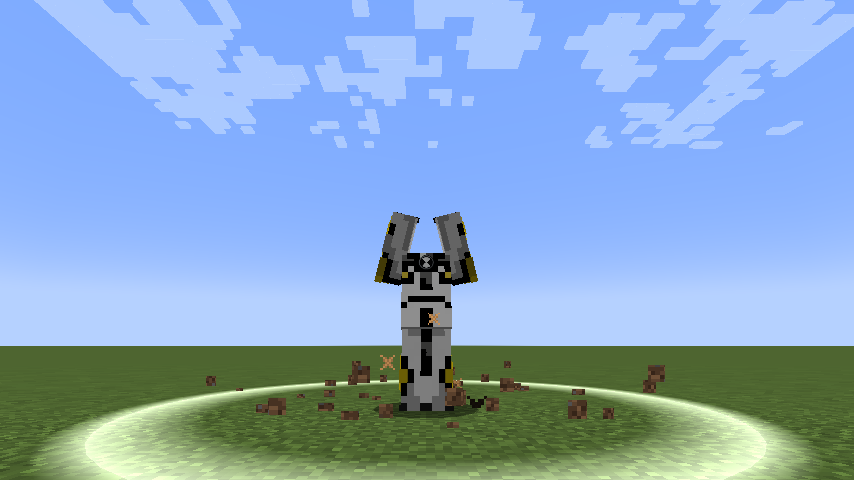
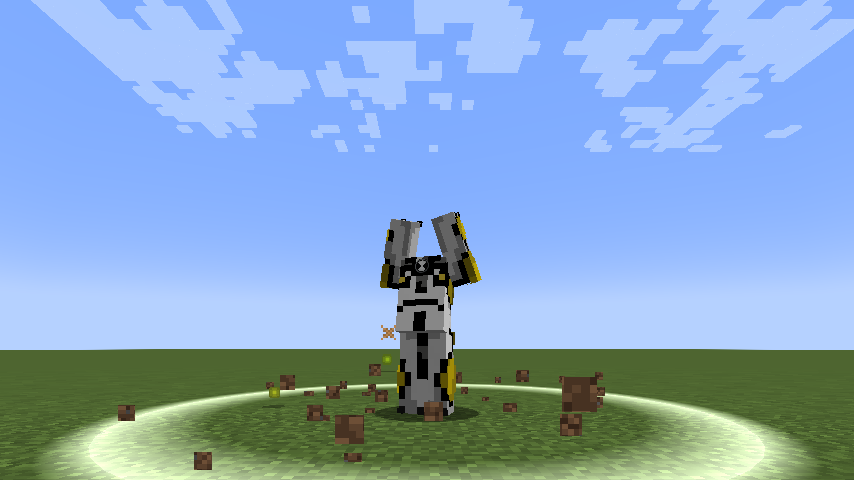
v0.17.2: Cannonbolt is found by accident -- off the dial until the prototype's first mistransform, which always lands on him and unlocks him for good; his ball remade from the user's reference (amber plates, black basketball seams, smooth sphere) (user: "for the canonbolt alien i want ben to acciden
- Aliens.HIDDEN / found / discover / nextHidden; playable(p), available and select skip an unfound alien.
- One action-bar line on the discovery only (ordinary mistransforms stay silent).
- /projecthero power tune omnitrix found on|off.
- Ball: 256x128 seam wrap traced on the sphere, 40x24 UV sphere with per-vertex normals.
- Test: a real slap loop finds Cannonbolt on the first glitch.

diff --git a/scratchpad/ben10_v0171/gen_cannonbolt.js b/scratchpad/ben10_v0171/gen_cannonbolt.js
@@ -16,28 +16,49 @@ const write = (f, w, h, px) => fs.writeFileSync(path.join(RES, f), L.encodePng(w
 // --- the skin -----------------------------------------------------------------------------------------------------------------
 write('entity/omnitrix/cannonbolt.png', 64, 64, dec(path.join(__dirname, 'cannonbolt_src.png')).px);
 
-// --- the ball's shell: a 64x32 wrap (longitude across, latitude down) for the client's sphere -------------------------------
-// two bands of his gold plates in a brick pattern, black-edged, white seams between them and white caps at the poles (his white
-// body showing between the plates, as the show's ball)
+// --- the ball's shell: a 256x128 wrap (longitude across, latitude down) for the client's UV sphere ----------------------------
+// v0.17.2 (user: "this is what canonbolts ball form looks like, make it look like this please" -- cannonbolt_ball_ref.png): solid
+// amber plates, no white, thick black seams like a basketball's -- a big S-wave round the middle, a round plate edge on each side
+// (the circle-in-circle panel) and one seam over the top. The seams are traced on the real sphere, with the exact mapping
+// CannonboltClient.sphere uses (v down = theta from the BOTTOM pole, y = -cos(theta); u round = phi), so they stay round.
 {
-	const W = 64, H = 32;
+	const W = 256, H = 128;
 	const px = Buffer.alloc(W * H * 4);
-	const set = (x, y, c) => { const o = (y * W + x) * 4; px[o] = c[0]; px[o + 1] = c[1]; px[o + 2] = c[2]; px[o + 3] = 255; };
-	const WHITE = [255, 255, 255], SHADE = [0xd8, 0xd8, 0xd8], BLACK = [0, 0, 0], GOLD = [0xda, 0xbe, 0x0b], DARK = [0xa8, 0x94, 0x11],
-		LIGHT = [0xf0, 0xd4, 0x3b];
-	const bands = [[3, 15, 0], [17, 29, 4]]; // rows y0..y1 inclusive, column offset (the brick shift)
+	const P = (theta, phi) => [Math.sin(theta) * Math.cos(phi), -Math.cos(theta), Math.sin(theta) * Math.sin(phi)];
+	const fromLatLon = (lat, phi) => P(Math.PI / 2 + lat, phi); // lat + = up
+	const norm = v => { const l = Math.hypot(v[0], v[1], v[2]); return v.map(c => c / l); };
+	const cross = (a, b) => [a[1] * b[2] - a[2] * b[1], a[2] * b[0] - a[0] * b[2], a[0] * b[1] - a[1] * b[0]];
+	const curves = [];
+	// 1. the S-wave round the middle (a tennis-ball seam)
+	{ const pts = []; for (let i = 0; i < 720; i++) { const f = i / 720 * 2 * Math.PI; pts.push(fromLatLon(0.62 * Math.sin(2 * f), f)); } curves.push(pts); }
+	// 2-3. a round plate edge in each big lobe the wave leaves
+	for (const [lat, lon] of [[0.32, 0.75 * Math.PI], [-0.32, 1.75 * Math.PI]]) {
+		const c = fromLatLon(lat, lon);
+		const a = norm(cross(c, [0, 1, 0])), b = cross(c, a), r = 0.5;
+		const pts = [];
+		for (let i = 0; i < 360; i++) {
+			const t = i / 360 * 2 * Math.PI;
+			pts.push(norm(c.map((v, k) => v * Math.cos(r) + (a[k] * Math.cos(t) + b[k] * Math.sin(t)) * Math.sin(r))));
+		}
+		curves.push(pts);
+	}
+	// 4. one seam over the top: a great circle through both poles, between the two plate circles
+	{ const pts = []; for (let i = 0; i < 720; i++) { const t = i / 720 * 2 * Math.PI; pts.push([Math.cos(t) * Math.cos(0.25 * Math.PI), Math.sin(t), Math.cos(t) * Math.sin(0.25 * Math.PI)]); } curves.push(pts); }
+	const AMBER = [0xF0, 0xB0, 0x30], DEEP = [0xC8, 0x86, 0x1C], BLACK = [0x12, 0x0C, 0x06];
+	const SEAM = 0.075, SOFT = 0.14; // radians: the black seam, then the plate's darker lip beside it
 	for (let y = 0; y < H; y++) {
 		for (let x = 0; x < W; x++) {
-			let c = (y < 2 || y > H - 3) ? SHADE : WHITE;
-			for (const [y0, y1, off] of bands) {
-				if (y < y0 || y > y1) continue;
-				const cx = ((x + off) % 8 + 8) % 8; // 8 plates round the ball
-				if (cx === 0) { c = WHITE; break; } // the white seam between two plates
-				const edge = y === y0 || y === y1 || cx === 1 || cx === 7;
-				if (edge) { c = BLACK; break; }
-				c = (y === y0 + 1 || cx === 2) ? LIGHT : (y >= y1 - 2 || cx === 6) ? DARK : GOLD;
+			const q = P(Math.PI * (y + 0.5) / H, 2 * Math.PI * (x + 0.5) / W);
+			let best = 9;
+			for (const pts of curves) for (const s of pts) {
+				const d = Math.acos(Math.max(-1, Math.min(1, q[0] * s[0] + q[1] * s[1] + q[2] * s[2])));
+				if (d < best) best = d;
 			}
-			set(x, y, c);
+			let c;
+			if (best < SEAM) c = BLACK;
+			else if (best < SOFT) { const k = (best - SEAM) / (SOFT - SEAM); c = DEEP.map((v, i) => Math.round(v + (AMBER[i] - v) * k)); }
+			else c = AMBER;
+			const o = (y * W + x) * 4; px[o] = c[0]; px[o + 1] = c[1]; px[o + 2] = c[2]; px[o + 3] = 255;
 		}
 	}
 	write('entity/omnitrix/cannonbolt_ball.png', W, H, px);

diff --git a/src/main/java/com/projecthero/mod/omnitrix/alien/Aliens.java b/src/main/java/com/projecthero/mod/omnitrix/alien/Aliens.java
@@ -101,9 +101,59 @@ public final class Aliens {
 		return com.projecthero.mod.omnitrix.Omnitrix.recalibrated(p) ? recalibrated() : all();
 	}
 
-	/** v0.17.2: the playable aliens on the dial of the watch {@code p} wears, in order. */
+	/**
+	 * v0.17.2 (user: "for the canonbolt alien i want ben to accidentally transform into the alien like a mistransformation"): aliens
+	 * the dial does not offer until a mistransform lands on one -- the prototype's glitch picks the first one still hidden, and from
+	 * then on it is on the dial for good ({@link #discover}).
+	 */
+	private static final java.util.Set<String> HIDDEN = java.util.Set.of("cannonbolt");
+
+	/** The persisted Omnitrix timer that marks {@code id} found (1 = found). */
+	public static String foundKey(String id) {
+		return "omnitrix.found." + id;
+	}
+
+	/** {@code id} is found by accident (a mistransform), not dialled. */
+	public static boolean hidden(String id) {
+		return HIDDEN.contains(id);
+	}
+
+	/** {@code p} may dial {@code id}: never hidden, or found already (client-safe: the synced state). */
+	public static boolean found(net.minecraft.world.entity.player.Player p, String id) {
+		return !HIDDEN.contains(id) || com.projecthero.mod.omnitrix.Omnitrix.state(p).readyAt(foundKey(id)) == 1L;
+	}
+
+	/** Puts a hidden alien on {@code p}'s dial for good ({@code on}), or takes it off again (tests, the tune command). */
+	public static void discover(net.minecraft.server.level.ServerPlayer p, String id, boolean on) {
+		var n = com.projecthero.mod.omnitrix.Omnitrix.state(p).copy();
+		if (on) {
+			n.timers.put(foundKey(id), 1L);
+		} else {
+			n.timers.remove(foundKey(id));
+		}
+		com.projecthero.mod.omnitrix.Omnitrix.save(p, n);
+	}
+
+	/** The first hidden alien (with a kit) on the dial of the watch {@code p} wears that {@code p} has not found yet, or null. */
+	@Nullable
+	public static Alien nextHidden(net.minecraft.world.entity.player.Player p) {
+		for (Alien a : dial(com.projecthero.mod.omnitrix.Omnitrix.recalibrated(p))) {
+			if (!found(p, a.id())) {
+				return a;
+			}
+		}
+		return null;
+	}
+
+	/** v0.17.2: the playable aliens on the dial of the watch {@code p} wears, in order (a hidden one only once found). */
 	public static List<Alien> playable(net.minecraft.world.entity.player.Player p) {
-		return dial(com.projecthero.mod.omnitrix.Omnitrix.recalibrated(p));
+		List<Alien> out = new ArrayList<>();
+		for (Alien a : dial(com.projecthero.mod.omnitrix.Omnitrix.recalibrated(p))) {
+			if (found(p, a.id())) {
+				out.add(a);
+			}
+		}
+		return out;
 	}
 
 	/** v0.17.2: the playable aliens on the prototype's dial, or ({@code recal}) the Recalibrated Omnitrix's, in order. */
@@ -120,7 +170,7 @@ public final class Aliens {
 	/** v0.17.2: {@code id} has a kit AND is on the dial of the watch {@code p} wears. */
 	public static boolean available(net.minecraft.world.entity.player.Player p, String id) {
 		Alien a = byId(id);
-		return a != null && KITS.containsKey(id) && a.recalibrated() == com.projecthero.mod.omnitrix.Omnitrix.recalibrated(p);
+		return a != null && KITS.containsKey(id) && a.recalibrated() == com.projecthero.mod.omnitrix.Omnitrix.recalibrated(p) && found(p, id);
 	}
 
 	@Nullable

diff --git a/src/gametest/java/com/projecthero/mod/gametest/OmnitrixCannonboltGameTests.java b/src/gametest/java/com/projecthero/mod/gametest/OmnitrixCannonboltGameTests.java
@@ -53,7 +53,8 @@ public class OmnitrixCannonboltGameTests implements FabricGameTest {
 		}
 		ServerPlayer p = mock(helper, 3.5, 2, 1.5);
 		helper.assertTrue(Omnitrix.grant(p), "the Omnitrix goes on");
-		helper.assertTrue(Omnitrix.select(p, CannonboltKit.ID), "Cannonbolt is on the prototype's dial");
+		Aliens.discover(p, CannonboltKit.ID, true); // found by a mistransform (its own test below)
+		helper.assertTrue(Omnitrix.select(p, CannonboltKit.ID), "Cannonbolt is on the prototype's dial once found");
 		helper.assertTrue(Omnitrix.transform(p), "transformed into Cannonbolt");
 		return p;
 	}
@@ -86,6 +87,57 @@ public class OmnitrixCannonboltGameTests implements FabricGameTest {
 		Omnitrix.grant(recal, true);
 		helper.assertFalse(Omnitrix.select(recal, CannonboltKit.ID), "the recalibrated watch cannot pick him");
 		helper.succeed();
+	}
+
+	/**
+	 * v0.17.2 (user: "for the canonbolt alien i want ben to accidentally transform into the alien like a mistransformation"): not on
+	 * the dial at first; the first mistransform lands on him and puts him on the dial for good, the dial staying where it was.
+	 */
+	@GameTest(template = EMPTY_STRUCTURE, timeoutTicks = 1600)
+	public void aMistransformFindsCannonboltAndPutsHimOnTheDial(GameTestHelper helper) {
+		for (int x = 0; x <= 7; x++) {
+			for (int z = 0; z <= 7; z++) {
+				helper.getLevel().setBlock(helper.absolutePos(new BlockPos(x, 1, z)), Blocks.STONE.defaultBlockState(), 3);
+			}
+		}
+		ServerPlayer p = mock(helper, 3.5, 2, 1.5);
+		helper.assertTrue(Omnitrix.grant(p), "the Omnitrix goes on");
+		helper.assertFalse(Aliens.playable(p).contains(Aliens.CANNONBOLT), "not on the dial before he is found");
+		helper.assertFalse(Omnitrix.select(p, CannonboltKit.ID), "and cannot be dialled");
+		helper.assertTrue(Aliens.nextHidden(p) == Aliens.CANNONBOLT, "he is the next alien a glitch finds");
+		helper.onEachTick(() -> {
+			p.tickCount++;
+			Omnitrix.tick(p);
+		});
+		attempt(helper, p, 0);
+	}
+
+	/** Slap Heatblast until a glitch fires (50% a slap) -- it must land on Cannonbolt. */
+	private static void attempt(GameTestHelper helper, ServerPlayer p, int n) {
+		if (n >= 40) {
+			helper.fail("no mistransform in 40 slaps");
+			return;
+		}
+		if (Omnitrix.transformed(p)) {
+			Omnitrix.revert(p, Omnitrix.Reason.REVOKE);
+		}
+		Omnitrix.setRecharge(p, 0);
+		Omnitrix.activate(p);
+		Omnitrix.finishRaise(p);
+		Omnitrix.select(p, Aliens.HEATBLAST.id());
+		Omnitrix.slap(p);
+		helper.runAfterDelay(Omnitrix.SLAP_TICKS + 4, () -> {
+			String active = Omnitrix.state(p).active;
+			if (!active.isEmpty() && !active.equals(Aliens.HEATBLAST.id())) {
+				helper.assertTrue(active.equals(CannonboltKit.ID), "the first mistransform is Cannonbolt, got " + active);
+				helper.assertTrue(Aliens.found(p, CannonboltKit.ID) && Aliens.playable(p).contains(Aliens.CANNONBOLT), "now on the dial");
+				helper.assertTrue(Omnitrix.state(p).selected.equals(Aliens.HEATBLAST.id()), "the dial stays on Heatblast");
+				helper.assertTrue(Aliens.nextHidden(p) == null, "nothing hidden left");
+				helper.succeed();
+				return;
+			}
+			attempt(helper, p, n + 1);
+		});
 	}
 
 	@GameTest(template = EMPTY_STRUCTURE)

diff --git a/src/main/java/com/projecthero/mod/omnitrix/Omnitrix.java b/src/main/java/com/projecthero/mod/omnitrix/Omnitrix.java
@@ -1318,7 +1318,7 @@ public final class Omnitrix {
 		if (!s.hasPower || Aliens.byId(alienId) == null || Aliens.byId(alienId).recalibrated() != recalibrated(p)) {
 			return false;
 		}
-		if (!Aliens.playable(alienId)) {
+		if (!Aliens.playable(alienId) || !Aliens.found(p, alienId)) { // v0.17.2: a hidden alien (Cannonbolt) only once a mistransform found it
 			p.displayClientMessage(Component.translatable("message.projecthero.omnitrix.coming_soon",
 					Component.translatable(Aliens.byId(alienId).nameKey())).withStyle(ChatFormatting.GRAY), true);
 			return false;
@@ -1418,22 +1418,46 @@ public final class Omnitrix {
 			String dialled = s.selected;
 			java.util.List<Aliens.Alien> pool = Aliens.playable(p);
 			// v0.17.2 (user: "the recalibrated omnitrix didnt mistransform so remove the 50% chance to get the wrong alien for the recalibrated")
-			if (s.readyAt(MASTER) != 1L && s.readyAt(RECAL) != 1L && s.readyAt(NO_GLITCH) != 1L && pool.size() > 1 && p.getRandom().nextFloat() < OmnitrixConfig.GLITCH_CHANCE) {
+			// v0.17.2 (user: "for the canonbolt alien i want ben to accidentally transform into the alien like a mistransformation"):
+			// a hidden alien (Cannonbolt) is never dialled -- the first glitch that fires always lands on the first one he has not
+			// found yet, and that puts it on his dial for good
+			Aliens.Alien hidden = Aliens.nextHidden(p);
+			String found = null;
+			if (s.readyAt(MASTER) != 1L && s.readyAt(RECAL) != 1L && s.readyAt(NO_GLITCH) != 1L && (pool.size() > 1 || hidden != null)
+					&& p.getRandom().nextFloat() < OmnitrixConfig.GLITCH_CHANCE) {
 				String other = dialled;
+				if (hidden != null) {
+					other = found = hidden.id();
+					Aliens.discover(p, found, true);
+				}
 				while (other.equals(dialled)) {
 					other = pool.get(p.getRandom().nextInt(pool.size())).id();
 				}
-				OmnitrixState g = s.copy();
+				OmnitrixState g = state(p).copy();
 				g.selected = other;
 				save(p, g);
 			}
 			boolean glitched = !state(p).selected.equals(dialled);
 			if (transform(p) && glitched) {
-				// v0.17.2 (user: "when the player mistransforms into the wrong alien dont make the text show up"): no message
+				// v0.17.2 (user: "when the player mistransforms into the wrong alien dont make the text show up"): no message --
+				// except the one time a mistransform finds a new alien, so he knows it is on his dial now
 				OmnitrixState g = state(p).copy();
 				g.selected = dialled; // the dial stays where he put it
 				save(p, g);
+				if (found != null) {
+					p.displayClientMessage(Component.translatable("message.projecthero.omnitrix.found",
+							Component.translatable(hidden.nameKey())).withStyle(ChatFormatting.YELLOW), true);
+				}
 				return;
+			}
+			if (glitched && !state(p).transformed()) {
+				// the glitch's transform was refused: back to the dialled alien, and nothing found
+				OmnitrixState g = state(p).copy();
+				g.selected = dialled;
+				save(p, g);
+				if (found != null) {
+					Aliens.discover(p, found, false);
+				}
 			}
 			if (state(p).transformed()) {
 				return;

diff --git a/src/client/java/com/projecthero/mod/client/omnitrix/alien/CannonboltClient.java b/src/client/java/com/projecthero/mod/client/omnitrix/alien/CannonboltClient.java
@@ -163,9 +163,12 @@ public final class CannonboltClient implements AlienClientKit {
 		pose.popPose();
 	}
 
-	private static final int SEGMENTS = 24, RINGS = 14;
+	private static final int SEGMENTS = 40, RINGS = 24; // v0.17.2 (user: the reference ball): smooth enough for the curved seams
 
-	/** A UV sphere of {@code radius} blocks, the 64x32 wrap texture: u round the equator, v pole to pole. */
+	/**
+	 * A UV sphere of {@code radius} blocks on the wrap texture (u round the equator, v pole to pole), every vertex lit by its own
+	 * normal so the shading is smooth (no rings).
+	 */
 	private static void sphere(PoseStack pose, VertexConsumer vc, float radius, int light) {
 		PoseStack.Pose last = pose.last();
 		for (int i = 0; i < RINGS; i++) {
@@ -174,13 +177,17 @@ public final class CannonboltClient implements AlienClientKit {
 			for (int j = 0; j < SEGMENTS; j++) {
 				float u0 = j / (float) SEGMENTS, u1 = (j + 1) / (float) SEGMENTS;
 				float p0 = (float) (2 * Math.PI) * u0, p1 = (float) (2 * Math.PI) * u1;
-				float[] a = point(t0, p0), b = point(t0, p1), c = point(t1, p1), d = point(t1, p0);
-				float[] n = point((t0 + t1) * 0.5f, (p0 + p1) * 0.5f);
-				// corners in the helper's UV order: (u0,v0) (u1,v0) (u1,v1) (u0,v1)
-				AlienParts.quad(vc, last, 0xFFFFFFFF, light, a[0] * radius, a[1] * radius, a[2] * radius, b[0] * radius, b[1] * radius, b[2] * radius,
-						c[0] * radius, c[1] * radius, c[2] * radius, d[0] * radius, d[1] * radius, d[2] * radius, n[0], n[1], n[2], u0, v0, u1, v1);
+				vertex(vc, last, point(t0, p0), radius, u0, v0, light);
+				vertex(vc, last, point(t0, p1), radius, u1, v0, light);
+				vertex(vc, last, point(t1, p1), radius, u1, v1, light);
+				vertex(vc, last, point(t1, p0), radius, u0, v1, light);
 			}
 		}
+	}
+
+	private static void vertex(VertexConsumer vc, PoseStack.Pose last, float[] n, float radius, float u, float v, int light) {
+		vc.addVertex(last, n[0] * radius, n[1] * radius, n[2] * radius).setColor(255, 255, 255, 255).setUv(u, v)
+				.setOverlay(net.minecraft.client.renderer.texture.OverlayTexture.NO_OVERLAY).setLight(light).setNormal(last, n[0], n[1], n[2]);
 	}
 
 	/** The unit-sphere point at polar angle {@code theta} (0 = top) and azimuth {@code phi}. */

diff --git a/src/main/java/com/projecthero/mod/omnitrix/OmnitrixCommand.java b/src/main/java/com/projecthero/mod/omnitrix/OmnitrixCommand.java
@@ -44,6 +44,13 @@ public final class OmnitrixCommand {
 					}
 					return on ? "Now the Recalibrated Omnitrix" : "Now the prototype Omnitrix";
 				}))
+				// v0.17.2: the aliens found only by a mistransform (Cannonbolt) -- on the dial now, or hidden again
+				.then(onOff("found", (p, on) -> {
+					for (String id : new String[] { com.projecthero.mod.omnitrix.alien.Aliens.CANNONBOLT.id() }) {
+						com.projecthero.mod.omnitrix.alien.Aliens.discover(p, id, on);
+					}
+					return on ? "Cannonbolt is on your dial" : "Cannonbolt is hidden again (the next mistransform finds him)";
+				}))
 				.then(onOff("glitch", (p, on) -> {
 					Omnitrix.setGlitches(p, on);
 					return "Mistransforms " + (on ? "on" : "off");

diff --git a/src/gametest/java/com/projecthero/mod/gametest/OmnitrixGameTests.java b/src/gametest/java/com/projecthero/mod/gametest/OmnitrixGameTests.java
@@ -373,7 +373,7 @@ public class OmnitrixGameTests implements FabricGameTest {
 		// v0.17.1 (user): a 0.2 s cooldown -- a second turn in the same tick is refused
 		helper.assertFalse(Omnitrix.cycle(p, 1), "the dial can't be turned again within 0.2 s");
 		helper.assertTrue(Omnitrix.state(p).selected.equals(second), "the refused turn changed nothing");
-		for (int k = 1; k < Aliens.playable().size(); k++) { // v0.17.1 wave A: however many aliens have kits by now
+		for (int k = 1; k < Aliens.playable(p).size(); k++) { // v0.17.1 wave A: however many aliens have kits by now (v0.17.2: on his dial)
 			Omnitrix.clearDialCooldown(p);
 			Omnitrix.cycle(p, 1);
 		}

diff --git a/docs/OMNITRIX_REVAMP_CANNONBOLT.md b/docs/OMNITRIX_REVAMP_CANNONBOLT.md
@@ -4,7 +4,23 @@ User: "build canonbolt alien for the prototype omnitrix please. Use this skin:
 https://www.planetminecraft.com/skin/cannonbolt-original-series/ do research on his powers and look at what he does in the show
 aswell when building his kit please, change his abilities if hes in ball mode or not please"
 
-Cannonbolt is on the **prototype** Omnitrix's dial, after Grey Matter (dial glyph U+E014). He is not on the Recalibrated Omnitrix.
+Cannonbolt belongs to the **prototype** Omnitrix, after Grey Matter (dial glyph U+E014). He is not on the Recalibrated Omnitrix.
+
+## Found by accident
+
+User: "for the canonbolt alien i want ben to accidentally transform into the alien like a mistransformation"
+
+- At first he is **not on the dial**. The scroll wheel, the alien wheel and dialling all skip him.
+- The prototype's mistransform glitch fires on 50% of slaps (never under Master Control, never on the Recalibrated Omnitrix).
+  The **first time it fires, it always lands on Cannonbolt**. That turns Ben into him, and puts him on the dial for good (a
+  persisted Omnitrix flag `omnitrix.found.cannonbolt`). The dial itself stays on the alien Ben picked.
+- That one discovery shows a line on the action bar: "The Omnitrix glitched into a new alien: Cannonbolt! He is on your dial
+  now." Ordinary mistransforms stay silent, as the user asked earlier.
+- From then on the glitch picks any alien on the dial at random, as before.
+- The flag is lost only when the watch comes off (the Containment Pod).
+- Test tool: `/projecthero power tune omnitrix found on|off` puts him on the dial or hides him again.
+- Code: `Aliens.HIDDEN`, `found`, `discover`, `nextHidden`. `playable(p)` and `available` skip unfound aliens. The glitch
+  is in `Omnitrix.tick`.
 
 ## In the show (Ben 10, original series)
 
@@ -73,9 +89,12 @@ V switches between the two modes. Every other key changes with the mode (`liveMo
 ## Build notes
 
 - `CannonboltKit` (main) and `CannonboltClient` (client).
-- The ball is a UV sphere drawn in place of the player model. This uses a new per-player
-  `AlienClientKit.customBody(AbstractClientPlayer)` hook. The texture is `cannonbolt_ball.png`, a 64x32 wrap of plate bands. The
-  ball rolls with the distance travelled.
+- The ball is a smooth UV sphere (40 x 24, per-vertex normals) drawn in place of the player model. It uses a new per-player
+  `AlienClientKit.customBody(AbstractClientPlayer)` hook, and rolls with the distance travelled.
+- The ball's look follows the user's reference picture (`scratchpad/ben10_v0171/cannonbolt_ball_ref.png`): solid amber
+  plates (#F0B030), no white, and thick black basketball-like seams. The seams are a big S-wave round the middle, a round plate
+  edge in each lobe and one seam over the top. They are traced on the sphere into the 256x128 `cannonbolt_ball.png` wrap, so
+  they stay round and turn with the roll.
 - Textures are generated by `scratchpad/ben10_v0171/gen_cannonbolt.js` (skin, ball, dial icons, font glyph).
 - Tests: `OmnitrixCannonboltGameTests`. Screenshots: `docs/screenshots/v0172/cannonbolt/`. Harness:
   `scratchpad/CannonboltHarness.v0172.java.txt`. It needs a `cannonbolt.flag` file in its run dir. It was run through a Gradle init
